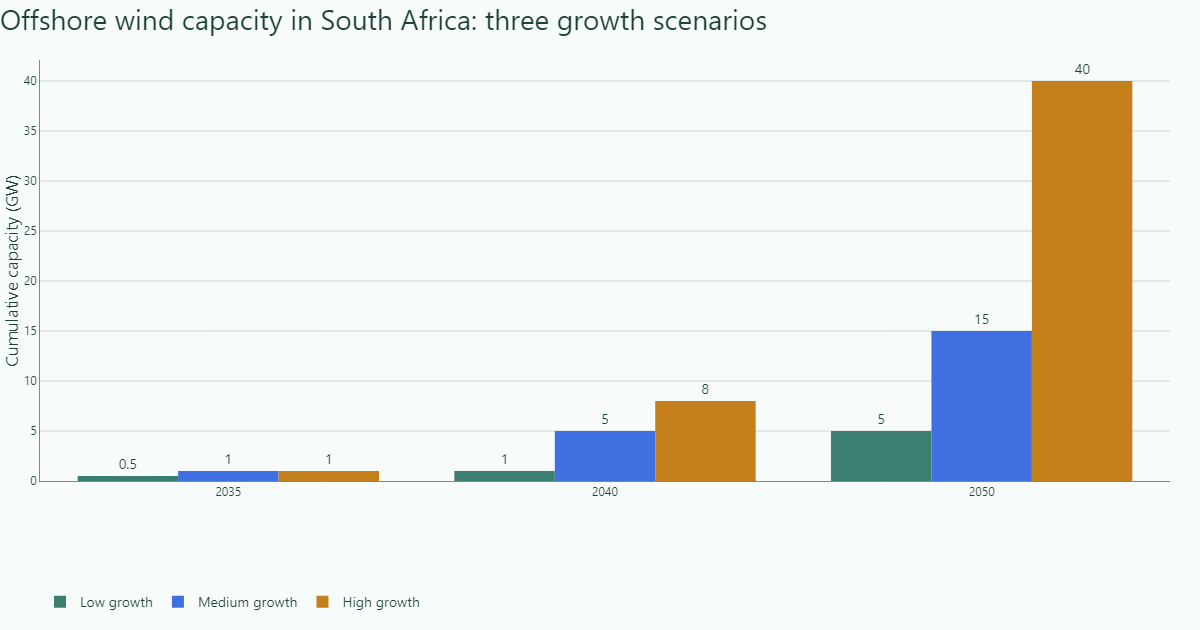
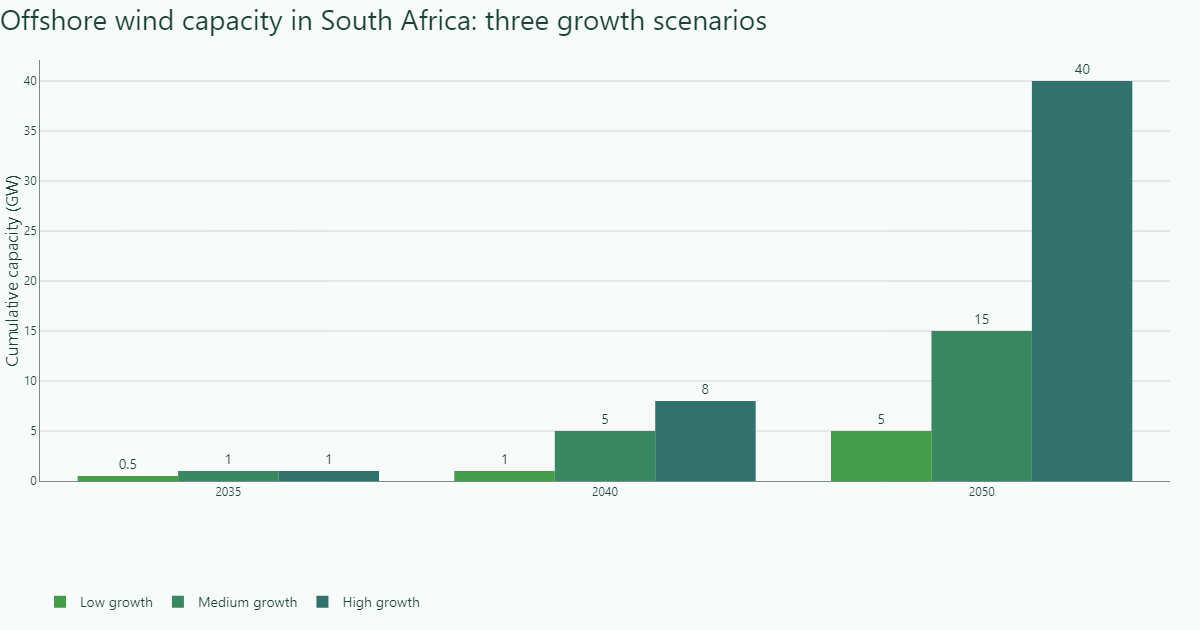
Rebuild site with the green chart

diff --git a/docs/index.html b/docs/index.html
@@ -427,9 +427,9 @@ ul.task-list li input[type="checkbox"] {
 </section>
 </div>
 <div class="plot-section">
-<div id="8dd8853f" class="cell" data-execution_count="1">
+<div id="3b9db1ea" class="cell" data-execution_count="1">
 <div class="cell-output cell-output-display cell-output-markdown">
-<script src="./assets/vendor/plotly-3.3.0.min.js" charset="utf-8"></script><div>                            <div id="1020bf26-1ae3-4661-8e69-e640bec86c89" class="plotly-graph-div" style="height:500px; width:100%;"></div>            <script type="text/javascript">                window.PLOTLYENV=window.PLOTLYENV || {};                                if (document.getElementById("1020bf26-1ae3-4661-8e69-e640bec86c89")) {                    Plotly.newPlot(                        "1020bf26-1ae3-4661-8e69-e640bec86c89",                        [{"arrangement":"snap","link":{"color":["rgba(125,138,134,0.5)","rgba(160,82,45,0.5)","rgba(217,122,30,0.5)","rgba(92,135,179,0.5)","rgba(154,50,205,0.5)","rgba(27,141,196,0.5)","rgba(34,139,34,0.5)","rgba(173,133,4,0.5)","rgba(125,138,134,0.5)","rgba(160,82,45,0.5)","rgba(217,122,30,0.5)","rgba(92,135,179,0.5)","rgba(63,111,224,0.5)","rgba(125,138,134,0.5)","rgba(217,122,30,0.5)","rgba(154,50,205,0.5)","rgba(27,141,196,0.5)","rgba(34,139,34,0.5)","rgba(173,133,4,0.5)","rgba(63,111,224,0.5)","rgba(125,138,134,0.5)","rgba(125,138,134,0.5)","rgba(125,138,134,0.5)","rgba(160,82,45,0.5)","rgba(217,122,30,0.5)","rgba(125,138,134,0.5)","rgba(160,82,45,0.5)","rgba(92,135,179,0.5)","rgba(173,133,4,0.5)","rgba(63,111,224,0.5)","rgba(125,138,134,0.5)","rgba(217,122,30,0.5)","rgba(92,135,179,0.5)","rgba(173,133,4,0.5)","rgba(63,111,224,0.5)","rgba(217,122,30,0.5)","rgba(63,111,224,0.5)","rgba(125,138,134,0.5)","rgba(217,122,30,0.5)","rgba(92,135,179,0.5)","rgba(173,133,4,0.5)","rgba(63,111,224,0.5)","rgba(125,138,134,0.5)","rgba(217,122,30,0.5)","rgba(92,135,179,0.5)","rgba(63,111,224,0.5)","rgba(217,122,30,0.5)","rgba(125,138,134,0.5)","rgba(160,82,45,0.5)","rgba(217,122,30,0.5)","rgba(92,135,179,0.5)","rgba(63,111,224,0.5)","rgba(217,122,30,0.5)","rgba(217,122,30,0.5)"],"source":[0,0,0,0,0,7,0,0,1,1,1,1,1,2,4,6,11,8,9,11,2,13,2,3,15,2,16,5,9,10,2,4,5,9,10,4,10,2,4,5,9,10,2,4,5,10,4,2,3,4,5,10,4,4],"target":[2,3,4,5,6,0,8,9,2,3,4,5,10,11,11,11,7,11,11,10,12,2,14,15,4,16,3,16,17,18,19,19,19,19,19,20,20,21,21,21,21,21,22,22,22,22,23,24,24,24,24,24,25,26],"value":[5497285.924,0.037647,312218.6356,655.0,136647.8788,29858.5516,78529.08028,652280.5,51069.14308,307174.6899,798101.1678,133923.4218,29602.8,2375269.072,30449.0625,106941.8182,36529.6716,61786.07522,4298.84,721797.1189,20747.93,21779.7237,22298.20344,444202.875,376440.5256,11476.08,180768.7965,51487.1451,221515.2,27669.6,852163.9016,56405.8071,60857.53551,82216.04,365714.712,712990.6906,7273.764,247488.8644,303822.1401,1494.34155,344250.42,902668.5623,750.95064,553221.3855,19958.33023,42708.0384,108338.424,1094444.382,1.7343,136194.21,392.679,33634.8,2265.658827,2421.510367]},"node":{"color":["#7D8A86","#7D8A86","#7D8A86","#A0522D","#D97A1E","#5C87B3","#9A32CD","#1B8DC4","#228B22","#AD8504","#3F6FE0","#3C7F70","#3C7F70","#3C7F70","#3C7F70","#3C7F70","#3C7F70","#3C7F70","#3C7F70","#B87A3D","#B87A3D","#B87A3D","#B87A3D","#B87A3D","#B87A3D","#B87A3D","#B87A3D"],"label":["Production","Imports","Coal","Crude oil","Oil products","Natural gas","Nuclear","Hydro","Geo-therm., Solar etc.","Biofuels and Waste","Electricity","Electricity plants","Blast furnaces","Gas works","Coke\u002fpat. fuel\u002fBKB\u002fPB plants","Oil refineries","Liquefaction plants","Other transformation","Losses","INDUSTRY","TRANSPORT","OTHER","Energy industry own use","NON-ENERGY USE","Exports","Intl. marine bunkers","Intl. aviation bunkers"],"pad":20,"thickness":15,"x":[0.05,0.05,0.3,0.3,0.3,0.3,0.3,0.3,0.3,0.3,0.3,0.6,0.6,0.6,0.6,0.6,0.6,0.6,0.6,0.85,0.85,0.85,0.85,0.85,0.85,0.85,0.85],"y":[0.05,0.95,0.05,0.15,0.25,0.35,0.44999999999999996,0.5499999999999999,0.65,0.75,0.85,0.05,0.32,0.41,0.49999999999999994,0.5900000000000001,0.77,0.86,0.95,0.05,0.17857142857142855,0.3071428571428571,0.43571428571428567,0.5642857142857143,0.6928571428571428,0.8214285714285714,0.95]},"type":"sankey"}],                        {"template":{"data":{"sankey":[{"hoverlabel":{"font":{"family":"Questrial, 'Segoe UI', Helvetica, Arial, sans-serif"}},"type":"sankey"}]},"layout":{"colorscale":{"sequential":[[0.0,"#E6FBF6"],[0.25,"#6CE5CA"],[0.5,"#5ABFA9"],[0.75,"#3C7F70"],[1.0,"#1E4038"]]},"colorway":["#3C7F70","#3F6FE0","#C4801A","#D4503C","#7D8A86","#8E5BD0"],"font":{"family":"Questrial, 'Segoe UI', Helvetica, Arial, sans-serif","size":14},"hoverlabel":{"font":{"family":"Questrial, 'Segoe UI', Helvetica, Arial, sans-serif"}},"legend":{"orientation":"h","x":0,"y":-0.25},"margin":{"b":40,"l":40,"r":30,"t":60},"paper_bgcolor":"rgba(0,0,0,0)","plot_bgcolor":"rgba(0,0,0,0)","title":{"font":{"size":18},"x":0,"xanchor":"left"},"xaxis":{"gridcolor":"rgba(125, 138, 134, 0.35)","linecolor":"#7D8A86","showgrid":true,"showline":true,"tickfont":{"size":12},"zeroline":false},"yaxis":{"gridcolor":"rgba(125, 138, 134, 0.35)","linecolor":"#7D8A86","showgrid":true,"showline":true,"tickfont":{"size":12},"zeroline":false}}},"title":{"font":{"size":22},"text":"South Africa Energy Balance - 2023","x":0},"font":{"size":11},"margin":{"t":60,"b":80,"l":5,"r":10},"annotations":[{"font":{"size":10},"showarrow":false,"text":"\u003ci\u003eSource: Vuyo Mbam based on South Africa Energy Balance 2023 (IEA, DMRE)\u003c\u002fi\u003e","x":0,"xanchor":"left","xref":"paper","y":-0.12,"yref":"paper"}],"height":500},                        {"displayModeBar": false, "responsive": true}                    )                };            </script>        </div>
+<script src="./assets/vendor/plotly-3.3.0.min.js" charset="utf-8"></script><div>                            <div id="f05952cf-62ea-4c6d-b96a-1bc4e8260f8c" class="plotly-graph-div" style="height:500px; width:100%;"></div>            <script type="text/javascript">                window.PLOTLYENV=window.PLOTLYENV || {};                                if (document.getElementById("f05952cf-62ea-4c6d-b96a-1bc4e8260f8c")) {                    Plotly.newPlot(                        "f05952cf-62ea-4c6d-b96a-1bc4e8260f8c",                        [{"arrangement":"snap","link":{"color":["rgba(125,138,134,0.5)","rgba(160,82,45,0.5)","rgba(217,122,30,0.5)","rgba(92,135,179,0.5)","rgba(154,50,205,0.5)","rgba(27,141,196,0.5)","rgba(34,139,34,0.5)","rgba(173,133,4,0.5)","rgba(125,138,134,0.5)","rgba(160,82,45,0.5)","rgba(217,122,30,0.5)","rgba(92,135,179,0.5)","rgba(63,111,224,0.5)","rgba(125,138,134,0.5)","rgba(217,122,30,0.5)","rgba(154,50,205,0.5)","rgba(27,141,196,0.5)","rgba(34,139,34,0.5)","rgba(173,133,4,0.5)","rgba(63,111,224,0.5)","rgba(125,138,134,0.5)","rgba(125,138,134,0.5)","rgba(125,138,134,0.5)","rgba(160,82,45,0.5)","rgba(217,122,30,0.5)","rgba(125,138,134,0.5)","rgba(160,82,45,0.5)","rgba(92,135,179,0.5)","rgba(173,133,4,0.5)","rgba(63,111,224,0.5)","rgba(125,138,134,0.5)","rgba(217,122,30,0.5)","rgba(92,135,179,0.5)","rgba(173,133,4,0.5)","rgba(63,111,224,0.5)","rgba(217,122,30,0.5)","rgba(63,111,224,0.5)","rgba(125,138,134,0.5)","rgba(217,122,30,0.5)","rgba(92,135,179,0.5)","rgba(173,133,4,0.5)","rgba(63,111,224,0.5)","rgba(125,138,134,0.5)","rgba(217,122,30,0.5)","rgba(92,135,179,0.5)","rgba(63,111,224,0.5)","rgba(217,122,30,0.5)","rgba(125,138,134,0.5)","rgba(160,82,45,0.5)","rgba(217,122,30,0.5)","rgba(92,135,179,0.5)","rgba(63,111,224,0.5)","rgba(217,122,30,0.5)","rgba(217,122,30,0.5)"],"source":[0,0,0,0,0,7,0,0,1,1,1,1,1,2,4,6,11,8,9,11,2,13,2,3,15,2,16,5,9,10,2,4,5,9,10,4,10,2,4,5,9,10,2,4,5,10,4,2,3,4,5,10,4,4],"target":[2,3,4,5,6,0,8,9,2,3,4,5,10,11,11,11,7,11,11,10,12,2,14,15,4,16,3,16,17,18,19,19,19,19,19,20,20,21,21,21,21,21,22,22,22,22,23,24,24,24,24,24,25,26],"value":[5497285.924,0.037647,312218.6356,655.0,136647.8788,29858.5516,78529.08028,652280.5,51069.14308,307174.6899,798101.1678,133923.4218,29602.8,2375269.072,30449.0625,106941.8182,36529.6716,61786.07522,4298.84,721797.1189,20747.93,21779.7237,22298.20344,444202.875,376440.5256,11476.08,180768.7965,51487.1451,221515.2,27669.6,852163.9016,56405.8071,60857.53551,82216.04,365714.712,712990.6906,7273.764,247488.8644,303822.1401,1494.34155,344250.42,902668.5623,750.95064,553221.3855,19958.33023,42708.0384,108338.424,1094444.382,1.7343,136194.21,392.679,33634.8,2265.658827,2421.510367]},"node":{"color":["#7D8A86","#7D8A86","#7D8A86","#A0522D","#D97A1E","#5C87B3","#9A32CD","#1B8DC4","#228B22","#AD8504","#3F6FE0","#3C7F70","#3C7F70","#3C7F70","#3C7F70","#3C7F70","#3C7F70","#3C7F70","#3C7F70","#B87A3D","#B87A3D","#B87A3D","#B87A3D","#B87A3D","#B87A3D","#B87A3D","#B87A3D"],"label":["Production","Imports","Coal","Crude oil","Oil products","Natural gas","Nuclear","Hydro","Geo-therm., Solar etc.","Biofuels and Waste","Electricity","Electricity plants","Blast furnaces","Gas works","Coke\u002fpat. fuel\u002fBKB\u002fPB plants","Oil refineries","Liquefaction plants","Other transformation","Losses","INDUSTRY","TRANSPORT","OTHER","Energy industry own use","NON-ENERGY USE","Exports","Intl. marine bunkers","Intl. aviation bunkers"],"pad":20,"thickness":15,"x":[0.05,0.05,0.3,0.3,0.3,0.3,0.3,0.3,0.3,0.3,0.3,0.6,0.6,0.6,0.6,0.6,0.6,0.6,0.6,0.85,0.85,0.85,0.85,0.85,0.85,0.85,0.85],"y":[0.05,0.95,0.05,0.15,0.25,0.35,0.44999999999999996,0.5499999999999999,0.65,0.75,0.85,0.05,0.32,0.41,0.49999999999999994,0.5900000000000001,0.77,0.86,0.95,0.05,0.17857142857142855,0.3071428571428571,0.43571428571428567,0.5642857142857143,0.6928571428571428,0.8214285714285714,0.95]},"type":"sankey"}],                        {"template":{"data":{"sankey":[{"hoverlabel":{"font":{"family":"Questrial, 'Segoe UI', Helvetica, Arial, sans-serif"}},"type":"sankey"}]},"layout":{"colorscale":{"sequential":[[0.0,"#E6FBF6"],[0.25,"#6CE5CA"],[0.5,"#5ABFA9"],[0.75,"#3C7F70"],[1.0,"#1E4038"]]},"colorway":["#3C7F70","#3F6FE0","#C4801A","#D4503C","#7D8A86","#8E5BD0"],"font":{"family":"Questrial, 'Segoe UI', Helvetica, Arial, sans-serif","size":14},"hoverlabel":{"font":{"family":"Questrial, 'Segoe UI', Helvetica, Arial, sans-serif"}},"legend":{"orientation":"h","x":0,"y":-0.25},"margin":{"b":40,"l":40,"r":30,"t":60},"paper_bgcolor":"rgba(0,0,0,0)","plot_bgcolor":"rgba(0,0,0,0)","title":{"font":{"size":18},"x":0,"xanchor":"left"},"xaxis":{"gridcolor":"rgba(125, 138, 134, 0.35)","linecolor":"#7D8A86","showgrid":true,"showline":true,"tickfont":{"size":12},"zeroline":false},"yaxis":{"gridcolor":"rgba(125, 138, 134, 0.35)","linecolor":"#7D8A86","showgrid":true,"showline":true,"tickfont":{"size":12},"zeroline":false}}},"title":{"font":{"size":22},"text":"South Africa Energy Balance - 2023","x":0},"font":{"size":11},"margin":{"t":60,"b":80,"l":5,"r":10},"annotations":[{"font":{"size":10},"showarrow":false,"text":"\u003ci\u003eSource: Vuyo Mbam based on South Africa Energy Balance 2023 (IEA, DMRE)\u003c\u002fi\u003e","x":0,"xanchor":"left","xref":"paper","y":-0.12,"yref":"paper"}],"height":500},                        {"displayModeBar": false, "responsive": true}                    )                };            </script>        </div>
 </div>
 </div>
 </div>
@@ -503,7 +503,7 @@ ul.task-list li input[type="checkbox"] {
 <h1>Featured Articles</h1>
 <div id="listing-featured-articles" data-align="center" class="quarto-listing quarto-listing-container-grid">
 <div class="list grid quarto-listing-cols-3">
-<div class="g-col-1" data-index="0" data-categories="T2Zmc2hvcmUlMjB3aW5kJTJDSnVzdCUyMHRyYW5zaXRpb24=" data-listing-date-sort="1790200800000" data-listing-file-modified-sort="1790265225059" data-listing-date-modified-sort="NaN" data-listing-reading-time-sort="6" data-listing-word-count-sort="1197">
+<div class="g-col-1" data-index="0" data-categories="T2Zmc2hvcmUlMjB3aW5kJTJDSnVzdCUyMHRyYW5zaXRpb24=" data-listing-date-sort="1790200800000" data-listing-file-modified-sort="1790268303284" data-listing-date-modified-sort="NaN" data-listing-reading-time-sort="7" data-listing-word-count-sort="1216">
 <a href="./posts/offshore-wind-just-transition/index.html" class="quarto-grid-link">
 <div class="quarto-grid-item card h-100 card-right borderless">
 <p class="card-img-top">

diff --git a/docs/posts/offshore-wind-just-transition/index.html b/docs/posts/offshore-wind-just-transition/index.html
@@ -410,7 +410,7 @@ ul.task-list li input[type="checkbox"] {
 <div id="fig-scenarios" class="cell-output cell-output-display cell-output-markdown quarto-float quarto-figure quarto-figure-center">
 <figure class="quarto-float quarto-float-fig figure">
 <div aria-describedby="fig-scenarios-caption-0ceaefa1-69ba-4598-a22c-09a6ac19f8ca">
-<script src="../../assets/vendor/plotly-3.3.0.min.js" charset="utf-8"></script><div>                            <div id="c4b7080b-2fe3-4a8e-9876-83565e7e8eac" class="plotly-graph-div" style="height:440px; width:100%;"></div>            <script type="text/javascript">                window.PLOTLYENV=window.PLOTLYENV || {};                                if (document.getElementById("c4b7080b-2fe3-4a8e-9876-83565e7e8eac")) {                    Plotly.newPlot(                        "c4b7080b-2fe3-4a8e-9876-83565e7e8eac",                        [{"alignmentgroup":"True","hovertemplate":"Scenario=Low growth\u003cbr\u003eYear=%{x}\u003cbr\u003eCapacity (GW)=%{y}\u003cbr\u003eLabel=%{text}\u003cextra\u003e\u003c\u002fextra\u003e","legendgroup":"Low growth","marker":{"color":"#3C7F70","pattern":{"shape":""}},"name":"Low growth","offsetgroup":"Low growth","orientation":"v","showlegend":true,"text":["0.5","1","5"],"textposition":"outside","x":["2035","2040","2050"],"xaxis":"x","y":{"dtype":"f8","bdata":"AAAAAAAA4D8AAAAAAADwPwAAAAAAABRA"},"yaxis":"y","type":"bar","cliponaxis":false},{"alignmentgroup":"True","hovertemplate":"Scenario=Medium growth\u003cbr\u003eYear=%{x}\u003cbr\u003eCapacity (GW)=%{y}\u003cbr\u003eLabel=%{text}\u003cextra\u003e\u003c\u002fextra\u003e","legendgroup":"Medium growth","marker":{"color":"#3F6FE0","pattern":{"shape":""}},"name":"Medium growth","offsetgroup":"Medium growth","orientation":"v","showlegend":true,"text":["1","5","15"],"textposition":"outside","x":["2035","2040","2050"],"xaxis":"x","y":{"dtype":"f8","bdata":"AAAAAAAA8D8AAAAAAAAUQAAAAAAAAC5A"},"yaxis":"y","type":"bar","cliponaxis":false},{"alignmentgroup":"True","hovertemplate":"Scenario=High growth\u003cbr\u003eYear=%{x}\u003cbr\u003eCapacity (GW)=%{y}\u003cbr\u003eLabel=%{text}\u003cextra\u003e\u003c\u002fextra\u003e","legendgroup":"High growth","marker":{"color":"#C4801A","pattern":{"shape":""}},"name":"High growth","offsetgroup":"High growth","orientation":"v","showlegend":true,"text":["1","8","40"],"textposition":"outside","x":["2035","2040","2050"],"xaxis":"x","y":{"dtype":"f8","bdata":"AAAAAAAA8D8AAAAAAAAgQAAAAAAAAERA"},"yaxis":"y","type":"bar","cliponaxis":false}],                        {"template":{"data":{"sankey":[{"hoverlabel":{"font":{"family":"Questrial, 'Segoe UI', Helvetica, Arial, sans-serif"}},"type":"sankey"}]},"layout":{"colorscale":{"sequential":[[0.0,"#E6FBF6"],[0.25,"#6CE5CA"],[0.5,"#5ABFA9"],[0.75,"#3C7F70"],[1.0,"#1E4038"]]},"colorway":["#3C7F70","#3F6FE0","#C4801A","#D4503C","#7D8A86","#8E5BD0"],"font":{"family":"Questrial, 'Segoe UI', Helvetica, Arial, sans-serif","size":14},"hoverlabel":{"font":{"family":"Questrial, 'Segoe UI', Helvetica, Arial, sans-serif"}},"legend":{"orientation":"h","x":0,"y":-0.25},"margin":{"b":40,"l":40,"r":30,"t":60},"paper_bgcolor":"rgba(0,0,0,0)","plot_bgcolor":"rgba(0,0,0,0)","title":{"font":{"size":18},"x":0,"xanchor":"left"},"xaxis":{"gridcolor":"rgba(125, 138, 134, 0.35)","linecolor":"#7D8A86","showgrid":true,"showline":true,"tickfont":{"size":12},"zeroline":false},"yaxis":{"gridcolor":"rgba(125, 138, 134, 0.35)","linecolor":"#7D8A86","showgrid":true,"showline":true,"tickfont":{"size":12},"zeroline":false}}},"xaxis":{"anchor":"y","domain":[0.0,1.0],"title":{},"type":"category","showgrid":false},"yaxis":{"anchor":"x","domain":[0.0,1.0],"title":{"text":"Cumulative capacity (GW)"}},"legend":{"title":{},"tracegroupgap":0},"barmode":"group","height":440},                        {"displayModeBar": false, "responsive": true}                    )                };            </script>        </div>
+<script src="../../assets/vendor/plotly-3.3.0.min.js" charset="utf-8"></script><div>                            <div id="1ecb999a-f18f-4673-9fde-6fda2f249f6e" class="plotly-graph-div" style="height:440px; width:100%;"></div>            <script type="text/javascript">                window.PLOTLYENV=window.PLOTLYENV || {};                                if (document.getElementById("1ecb999a-f18f-4673-9fde-6fda2f249f6e")) {                    Plotly.newPlot(                        "1ecb999a-f18f-4673-9fde-6fda2f249f6e",                        [{"alignmentgroup":"True","hovertemplate":"Scenario=Low growth\u003cbr\u003eYear=%{x}\u003cbr\u003eCapacity (GW)=%{y}\u003cbr\u003eLabel=%{text}\u003cextra\u003e\u003c\u002fextra\u003e","legendgroup":"Low growth","marker":{"color":"#439D4B","pattern":{"shape":""}},"name":"Low growth","offsetgroup":"Low growth","orientation":"v","showlegend":true,"text":["0.5","1","5"],"textposition":"outside","x":["2035","2040","2050"],"xaxis":"x","y":{"dtype":"f8","bdata":"AAAAAAAA4D8AAAAAAADwPwAAAAAAABRA"},"yaxis":"y","type":"bar","cliponaxis":false},{"alignmentgroup":"True","hovertemplate":"Scenario=Medium growth\u003cbr\u003eYear=%{x}\u003cbr\u003eCapacity (GW)=%{y}\u003cbr\u003eLabel=%{text}\u003cextra\u003e\u003c\u002fextra\u003e","legendgroup":"Medium growth","marker":{"color":"#3A8861","pattern":{"shape":""}},"name":"Medium growth","offsetgroup":"Medium growth","orientation":"v","showlegend":true,"text":["1","5","15"],"textposition":"outside","x":["2035","2040","2050"],"xaxis":"x","y":{"dtype":"f8","bdata":"AAAAAAAA8D8AAAAAAAAUQAAAAAAAAC5A"},"yaxis":"y","type":"bar","cliponaxis":false},{"alignmentgroup":"True","hovertemplate":"Scenario=High growth\u003cbr\u003eYear=%{x}\u003cbr\u003eCapacity (GW)=%{y}\u003cbr\u003eLabel=%{text}\u003cextra\u003e\u003c\u002fextra\u003e","legendgroup":"High growth","marker":{"color":"#31726D","pattern":{"shape":""}},"name":"High growth","offsetgroup":"High growth","orientation":"v","showlegend":true,"text":["1","8","40"],"textposition":"outside","x":["2035","2040","2050"],"xaxis":"x","y":{"dtype":"f8","bdata":"AAAAAAAA8D8AAAAAAAAgQAAAAAAAAERA"},"yaxis":"y","type":"bar","cliponaxis":false}],                        {"template":{"data":{"sankey":[{"hoverlabel":{"font":{"family":"Questrial, 'Segoe UI', Helvetica, Arial, sans-serif"}},"type":"sankey"}]},"layout":{"colorscale":{"sequential":[[0.0,"#E6FBF6"],[0.25,"#6CE5CA"],[0.5,"#5ABFA9"],[0.75,"#3C7F70"],[1.0,"#1E4038"]]},"colorway":["#3C7F70","#3F6FE0","#C4801A","#D4503C","#7D8A86","#8E5BD0"],"font":{"family":"Questrial, 'Segoe UI', Helvetica, Arial, sans-serif","size":14},"hoverlabel":{"font":{"family":"Questrial, 'Segoe UI', Helvetica, Arial, sans-serif"}},"legend":{"orientation":"h","x":0,"y":-0.25},"margin":{"b":40,"l":40,"r":30,"t":60},"paper_bgcolor":"rgba(0,0,0,0)","plot_bgcolor":"rgba(0,0,0,0)","title":{"font":{"size":18},"x":0,"xanchor":"left"},"xaxis":{"gridcolor":"rgba(125, 138, 134, 0.35)","linecolor":"#7D8A86","showgrid":true,"showline":true,"tickfont":{"size":12},"zeroline":false},"yaxis":{"gridcolor":"rgba(125, 138, 134, 0.35)","linecolor":"#7D8A86","showgrid":true,"showline":true,"tickfont":{"size":12},"zeroline":false}}},"xaxis":{"anchor":"y","domain":[0.0,1.0],"title":{},"type":"category","showgrid":false},"yaxis":{"anchor":"x","domain":[0.0,1.0],"title":{"text":"Cumulative capacity (GW)"}},"legend":{"title":{},"tracegroupgap":0},"barmode":"group","height":440},                        {"displayModeBar": false, "responsive": true}                    )                };            </script>        </div>
 </div>
 <figcaption class="quarto-float-caption-bottom quarto-float-caption quarto-float-fig" id="fig-scenarios-caption-0ceaefa1-69ba-4598-a22c-09a6ac19f8ca">
 Figure&nbsp;1: Cumulative offshore wind capacity in the framework’s three growth scenarios. Source: Strategic Framework for Offshore Wind Development in South Africa (ESMAP / World Bank, 2026), Table 2.

diff --git a/docs/articles.html b/docs/articles.html
@@ -416,7 +416,7 @@ ul.task-list li input[type="checkbox"] {
 
 <div class="quarto-listing quarto-listing-container-grid" id="listing-article-listing">
 <div class="list grid quarto-listing-cols-3">
-<div class="g-col-1" data-index="0" data-categories="T2Zmc2hvcmUlMjB3aW5kJTJDSnVzdCUyMHRyYW5zaXRpb24=" data-listing-date-sort="1790200800000" data-listing-file-modified-sort="1790265225059" data-listing-date-modified-sort="NaN" data-listing-reading-time-sort="6" data-listing-word-count-sort="1197">
+<div class="g-col-1" data-index="0" data-categories="T2Zmc2hvcmUlMjB3aW5kJTJDSnVzdCUyMHRyYW5zaXRpb24=" data-listing-date-sort="1790200800000" data-listing-file-modified-sort="1790268303284" data-listing-date-modified-sort="NaN" data-listing-reading-time-sort="7" data-listing-word-count-sort="1216">
 <a href="./posts/offshore-wind-just-transition/index.html" class="quarto-grid-link">
 <div class="quarto-grid-item card h-100 card-left">
 <p class="card-img-top">
